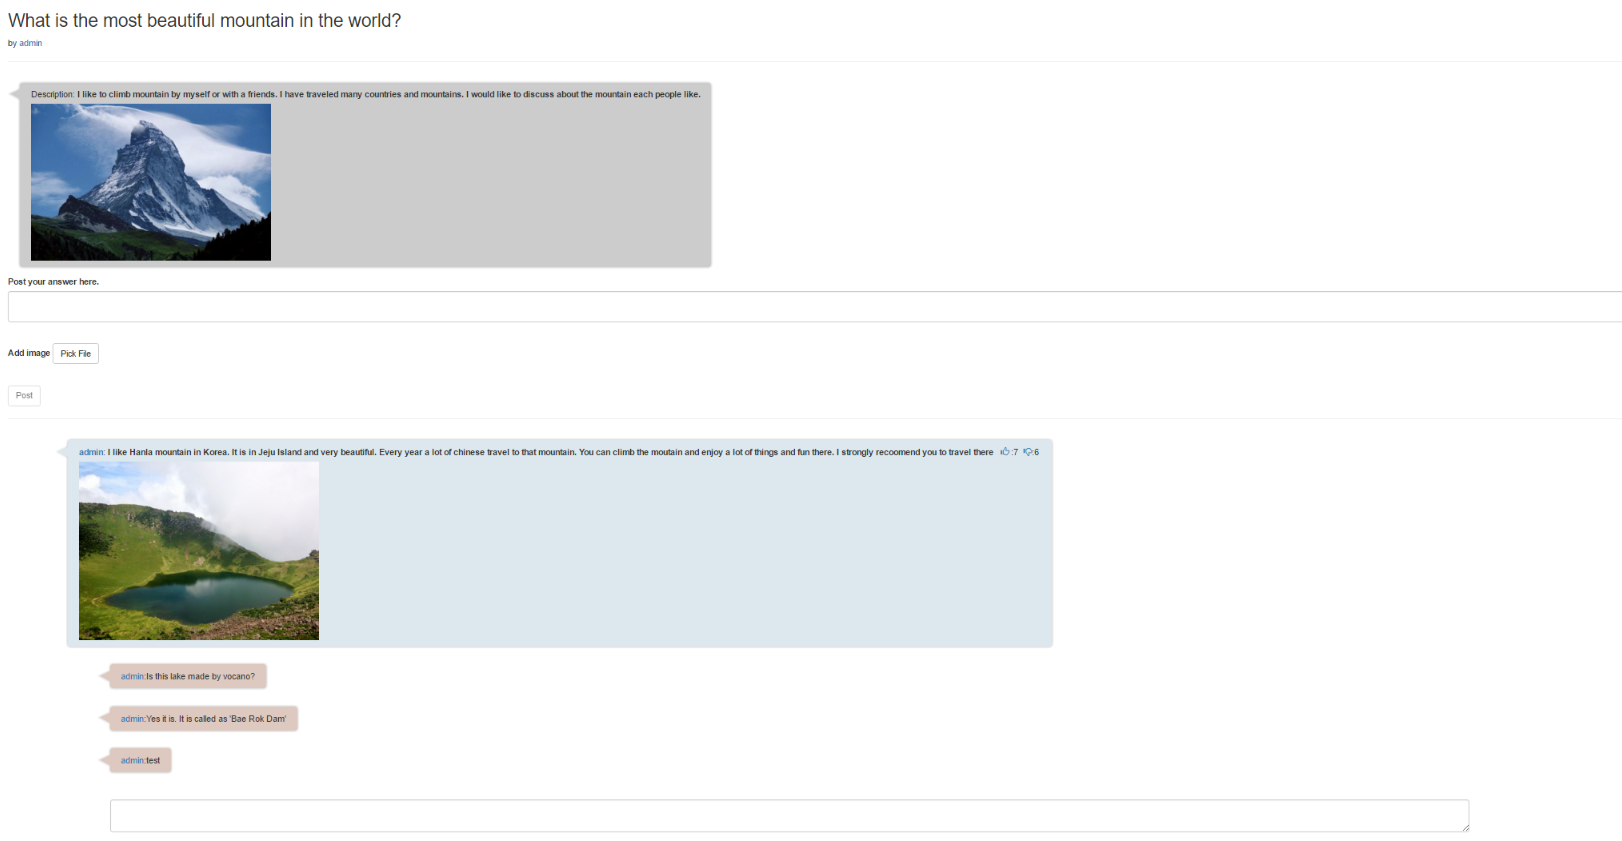
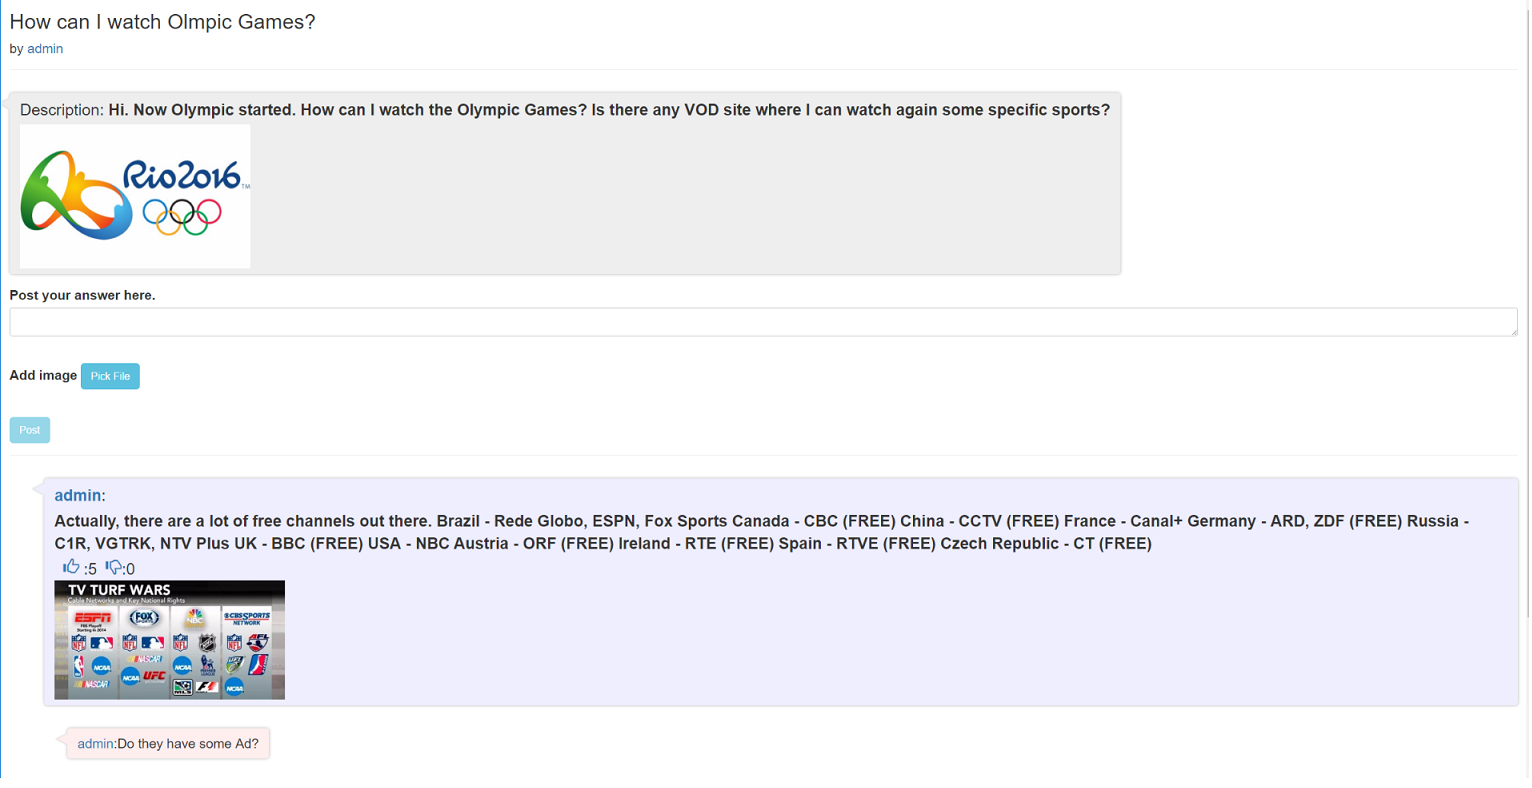
increased font size and change the topic detail content as Rio Olympic

diff --git a/client/less/discussion.less b/client/less/discussion.less
@@ -8,10 +8,12 @@ main
 {
   height: 100%;
   width: 100%;
+  font-size: @main-font-size;
 }
 
 body {
   .serif-font;
+
 }
 
 h1,
@@ -104,38 +106,40 @@ h6 {
 
 .topic {
   float: left;
-  margin: 15px 20px 15px 20px;
-  background-color: #cccccc;
+  font-size: @main-font-size;
+  margin: @bubble-top-bottom-margin 0 @bubble-top-bottom-margin  0 * @bubble-indent;
+  background-color: @topic-background-color;
 }
 
 .topic::before {
   box-shadow: -2px 2px 2px 0 rgba( 178, 178, 178, .4 );
   left: -9px;
-  background-color: #cccccc;
+  background-color: @topic-background-color;
 }
 
 .post {
   float: left;
-  margin: 15px 20px 15px 100px;
-  background-color: #dce8ee;
+  font-size: @main-font-size;
+  margin: @bubble-top-bottom-margin 0 @bubble-top-bottom-margin  3 * @bubble-indent;
+  background-color: @post-background-color;
 }
 
 .post::before {
   box-shadow: -2px 2px 2px 0 rgba( 178, 178, 178, .4 );
   left: -9px;
-  background-color: #dce8ee;
+  background-color: @post-background-color;
 }
 
 .comment {
   float: left;
-  margin:15px 20px 15px 170px;
-  background-color: #ddc9bf;
+  margin: @bubble-top-bottom-margin 0 @bubble-top-bottom-margin  5 * @bubble-indent;
+  background-color: @comment-background-color;
 }
 
 .comment::before {
   box-shadow: -2px 2px 2px 0 rgba( 178, 178, 178, .4 );
   left: -9px;
-  background-color: #ddc9bf;
+  background-color: @comment-background-color;
 }
 
 #newpost {

diff --git a/client/less/variables.less b/client/less/variables.less
@@ -1,12 +1,9 @@
 // Variables
 
-// Gray and Brand Colors for use across theme
-
-@theme-primary:    #F05F40;
-
-@gray-base:        #000;
-@gray-darker:      lighten(@gray-base, 13.5%); // #222
-@gray-dark:        lighten(@gray-base, 20%);   // #333
-@gray:             lighten(@gray-base, 33.5%); // #555
-@gray-light:       lighten(@gray-base, 46.7%); // #777
-@gray-lighter:     lighten(@gray-base, 93.5%); // #eee
+@title-font-size:           2.5em;
+@main-font-size:            1.2em;
+@topic-background-color:    #eee;
+@post-background-color:     #eef;
+@comment-background-color:  #fee;
+@bubble-top-bottom-margin:  20px;
+@bubble-indent:             20px;
